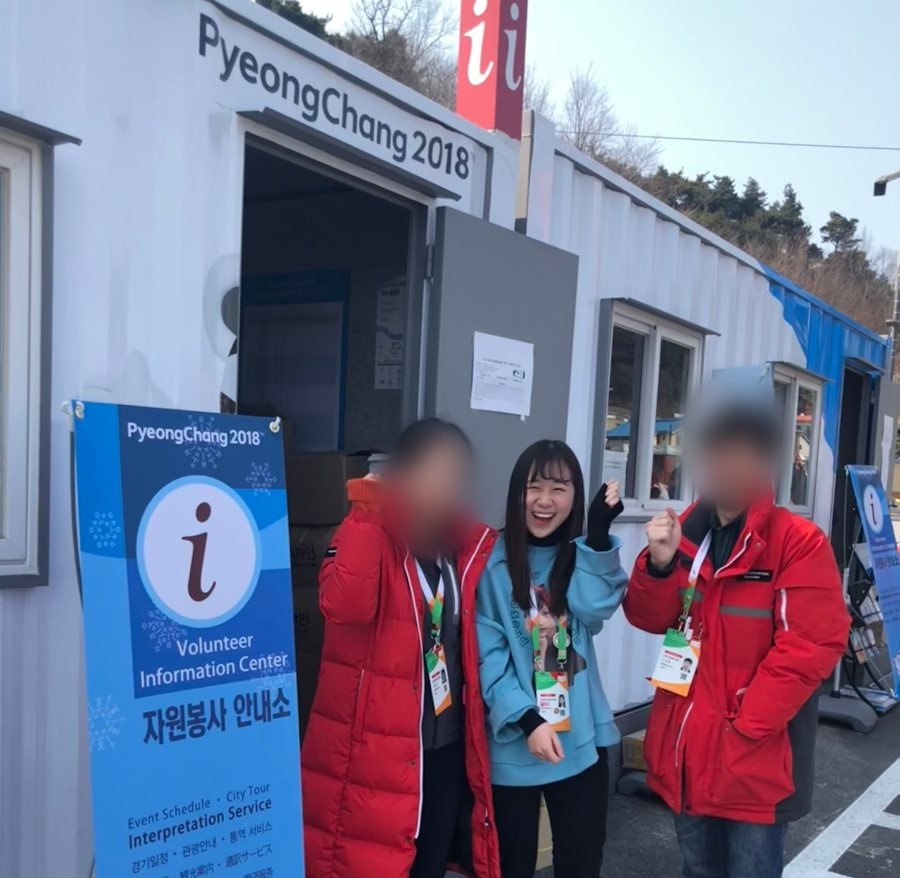
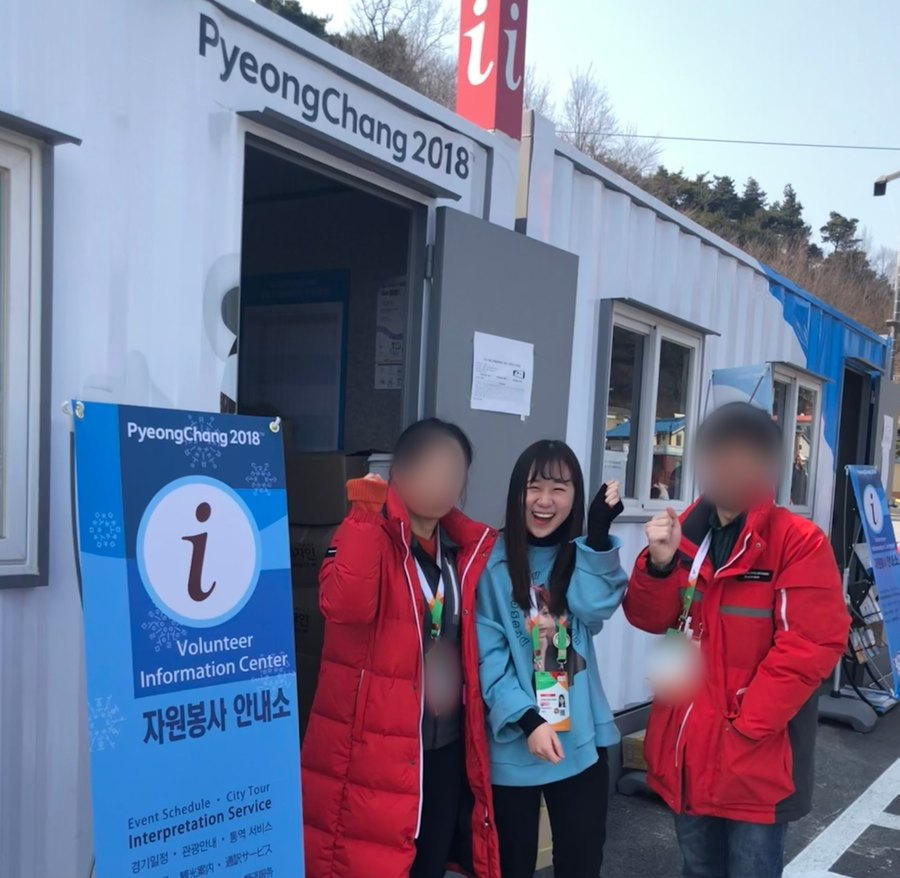
loreal: drop Maryland, add PyeongChang and graduation photos; blur others' faces
Same road-sign changes as /tripcom. In the PyeongChang group photo the
two people beside Sony have their faces and ID badges blurred (also
applied to the /tripcom copy).

Claude-Session: https://claude.ai/code/session_01Gbpb7sHddyPuNvSF22USPS

diff --git a/loreal-v6/index.html b/loreal-v6/index.html
@@ -473,6 +473,8 @@ mark{background:linear-gradient(transparent 62%,rgba(200,169,106,.35) 62%)!impor
 
 .shade.done .sp-in{-webkit-mask-image:none;mask-image:none}
 .bb-panel{z-index:2}.pole{z-index:1}
+.bb .pic.pic-mini{width:17%;right:-4.6em;top:auto;bottom:-4.4em;padding:.3em .3em 1em;z-index:2}
+.bb .pic.pic-tall{width:31%;top:.8em}.bb .pic.pic-tall img{aspect-ratio:4/5;object-position:50% 20%}
 /* hologram coverflow (contained, never overlaps copy) */
 .holo-row{display:block!important}
 .holo-row .ic-list{grid-template-columns:repeat(3,1fr);gap:18px}
@@ -651,14 +653,14 @@ html.en .xb::after{content:"× ↑";font-family:inherit;font-size:1em}
         <div class="track" id="track">
           <article class="bb" data-i="0">
             <div class="bb-panel"><div class="bb-top"><span>No.01</span><span>Born</span></div>
-              <b class="bb-year">2001</b><h3>Maryland, U.S.</h3><p>메릴랜드에서 태어나 11년간 성장</p>
+              <b class="bb-year">2001</b><h3>United States</h3><p>미국에서 태어나 11년간 성장</p>
               <span class="stk y" style="--r:-7deg">Hello, world!</span><i class="holo"></i></div>
             <i class="pole l"></i><i class="pole r"></i>
           </article>
           <article class="bb" data-i="1">
             <div class="bb-panel"><div class="bb-top"><span>No.02</span><span>Volunteer</span></div>
               <b class="bb-year">2018</b><h3>PyeongChang Olympics</h3><p>강릉역 통역 자원봉사 · 교통 · 길 안내</p>
-              <figure class="pic" style="--r:6deg"><img src="../assets/pyeongchang-badge.jpg" alt="평창 올림픽 자원봉사 배지"><i class="tape"></i></figure>
+              <figure class="pic" style="--r:5deg"><img src="img/pc-volunteer.jpg" alt="평창 올림픽 자원봉사 안내소에서"><i class="tape"></i></figure><figure class="pic pic-mini" style="--r:-8deg"><img src="../assets/pyeongchang-badge.jpg" alt="평창 올림픽 자원봉사 배지"></figure>
               <span class="stk w" style="--r:-9deg">Interpreter</span><i class="holo"></i></div>
             <i class="pole l"></i><i class="pole r"></i>
           </article>
@@ -679,6 +681,7 @@ html.en .xb::after{content:"× ↑";font-family:inherit;font-size:1em}
           <article class="bb" data-i="4">
             <div class="bb-panel"><div class="bb-top"><span>No.05</span><span>Seoul</span></div>
               <b class="bb-year">2024</b><h3>Dongguk University</h3><p>경제학과 · GPA 4.05 / 4.5</p>
+              <figure class="pic pic-tall" style="--r:-5deg"><img src="img/dongguk-grad.jpg" alt="동국대학교 졸업"><i class="tape"></i></figure>
               <span class="stk w" style="--r:7deg">Economics</span><i class="holo"></i></div>
             <i class="pole l"></i><i class="pole r"></i>
           </article>
@@ -919,7 +922,7 @@ html.en .xb::after{content:"× ↑";font-family:inherit;font-size:1em}
 
 <div class="lb" id="lb" role="dialog" aria-modal="true"><span class="x">Close ✕</span></div>
 
-<script>window.__EN={"메릴랜드에서 태어나 11년간 성장": "Born in Maryland and raised there for 11 years", "강릉역 통역 자원봉사 · 교통 · 길 안내": "Volunteer interpreter at Gangneung Station · transportation · directions", "해외 진출 전략 제안 · 1위": "Proposed a global market-entry strategy · 1st place", "원격 마케팅 인턴 · 영문 브로슈어·이북": "Remote marketing intern · English brochure and e-book", "경제학과 · GPA 4.05 / 4.5": "Economics · GPA 4.05 / 4.5", "금융 아카데미 7기 수료": "Completed the Financial Academy, 7th cohort", "브랜드 행사 4회 기획 · 최대 150명": "Planned 4 brand events · up to 150 guests", "국적과 실력이 달라도, 처음 만난 사람끼리 연결되는 참여형 브랜드 이벤트": "Interactive brand events where people of any nationality or level connect with someone new", "Branch Assistant · 이벤트 공동 호스트국내 최대 영어회화 스터디 1호점2024.08 – 현재": "<b>Branch Assistant · Event co-host</b><br/>Flagship branch of Korea’s largest English conversation study<br/>Aug 2024 – Present", "참여 인원 증가 · 90 → 150명": "Turnout growth · 90 → 150 guests", "이벤트 4회 누적 게스트": "Total guests across 4 events", "회차별 사전 RSVP · 행사 전 비용 충당": "Advance RSVPs per event · costs covered before the night", "먼저 제안해 기획을 맡다업무 범위 밖이었지만 매니저에게 직접 제안해 지점 파티 기획 권한을 받았습니다.": "<b>Pitched it, then got to plan it</b>It was outside my role, but I proposed it to my manager directly and was given <mark>ownership of the branch parties</mark>.", "템플릿 대신 시리즈 홍보물마스코트 ‘코코’와 직접 찍은 사진으로 회차별 테마 포스터를 디자인했습니다.": "<b>A poster series, not templates</b>I designed <mark>a themed poster for each event</mark> with Coco the mascot and my own photos.", "SNS용 애니메이션 포스터인스타그램용으로 움직임을 넣은 포스터를 만들어 사전 RSVP를 모았습니다.": "<b>Animated posters for social</b>I made <mark>posters with motion</mark> for Instagram to gather RSVPs in advance.", "스태프 근무표 · 매뉴얼 4p": "Staff rota · manual, 4p", "크리스마스 행사 현장": "Christmas event on site", "행사 현장 영상": "Event footage", "아래 홀로그램 카드를 넘겨 보고, 가운데 카드를 누르면 크게 볼 수 있습니다.": "Swipe through the hologram cards below; tap the centre card to enlarge it.", "↺ 처음부터": "↺ Replay", "참여권 배부": "Game pass at the door", "같은 그림 짝 찾기": "Find your matching picture", "짝 인증": "Pair check", "응모권": "Entries", "🎯사격": "🎯<em>Shooting</em>", "⭕링 던지기": "⭕<em>Ring toss</em>", "⚽푸즈볼": "⚽<em>Foosball</em>", "01게임 참여권 받기입장 시 회차 테마 그림 카드 배부": "<b>01</b><h4>Get a game pass</h4>A themed picture card at the door", "02같은 그림 짝 찾기처음 만난 게스트와 팀 구성": "<b>02</b><h4>Find your match</h4>Team up with a guest you just met", "03인증 후 미니게임사격 · 링 던지기 · 푸즈볼": "<b>03</b><h4>Mini games after check-in</h4>Shooting · ring toss · foosball", "04경품 응모권많이 참여할수록 당첨 확률 ↑": "<b>04</b><h4>Prize-draw entries</h4>Play more, win more often ↑", "↻ 선착순 마감 → 재참여형 · 인기로 미니게임이 조기 마감되자, 같은 그림 카드를 여러 장 준비해 새로운 파트너와 반복 참여하도록 바꿨습니다.": "<b>↻ First-come → replayable</b> · When the mini games sold out early, I prepared several copies of each picture card so guests could replay with new partners.", "응대 스크립트 · 예약 프로세스 · 스터디 진행까지, 고객과 만나는 첫 접점을 다시 설계": "Script, booking process and study sessions: redesigning the first touchpoint with customers", "Branch Assistant · 고객 응대문의자 콜백 · 상담 예약 · 스터디 진행2024.08 – 현재": "<b>Branch Assistant · Customer care</b><br/>Inquiry callbacks · booking · study sessions<br/>Aug 2024 – Present", "상담 전환율 (5% → 7%) · 지점 평균 4%": "Booking rate (5% → 7%) · branch average 4%", "회신량 · 1년차 2,241건 → 2년차 5,062건": "Callbacks · 2,241 in year one → 5,062 in year two", "2년간 누적 회신 · 조교 중 최다": "Total callbacks over two years · most among staff", "세션당 최대 응대 인원": "Members hosted per session, at most", "이름 확인“○○님 되시죠?” 광고 전화가 아님을 첫마디에 전달": "<b>Confirm the name</b><span>“Is this ○○?” signals from the first words that it is not a sales call</span>", "문의 경로 안내“영어회화 스터디 컬컴 신촌점입니다”로 신뢰 확보": "<b>State the inquiry source</b><span>“This is Culcom Sinchon, the English study” builds trust</span>", "1분 양해“1분만 통화 가능하실까요?”로 부담 낮추기": "<b>Ask for one minute</b><span>“Do you have a minute?” lowers the pressure</span>", "가장 빠른 상담 제안필요한 정보만 전하고 바로 일정 제안": "<b>Offer the earliest slot</b><span>Only the essentials, then a time right away</span>", "1년차 회신": "Year 1 callbacks", "2년차 회신": "Year 2 callbacks", "지점 평균": "Branch average", "내 전환율": "My booking rate", "2년간 7,303건 회신 · 조교 중 최다 회신, 최고 전환율": "7,303 callbacks over two years · most callbacks and highest conversion among staff", "미확정 사유를 데이터로미확정 사유를 타지점 희망 · 사정상 거절 · 허수 3가지로 분류해 기록했고, 허수가 많은 광고를 매니저에게 공유해 광고 효율 개선에 반영되었습니다.": "<b>Non-bookings as data</b>I logged every non-booking as <mark>other branch · declined · fake lead</mark>, and shared ads with many fake leads with my manager, which fed into improving ad efficiency.", "모두가 쓰는 메시지 템플릿언어별 상담 가능 시간대를 매니저와 정리하고, 전 조교가 함께 쓰는 구글 문서 메시지 템플릿을 업데이트했습니다.": "<b>One template for everyone</b>I clarified each language’s consultation hours with my manager and updated the <mark>Google Docs message templates</mark> all assistants share.", "01운영 변화2025년 11월 일본어 · 중국어 스터디가 추가되며 언어별 상담 시간 · 정원이 달라졌습니다.": "<b>01</b><h4>Change</h4>Japanese and Chinese studies were added in Nov 2025, each with its own consultation hours and capacity.", "02위험 발견네이버 예약은 영어 기준으로 자동 확정되어 중복 · 초과 예약 위험이 있었습니다.": "<b>02</b><h4>Risk spotted</h4>Naver still auto-confirmed bookings on the English schedule, risking <mark>double and over-booking</mark>.", "03개선 제안업무 중 먼저 파악해, 정원이 찬 뒤 당일 예약이 확정되지 않도록 수동 확정 전환을 제안했습니다.": "<b>03</b><h4>Proposal</h4>I caught it on the job and proposed <mark>manual confirmation</mark> so same-day bookings would not be confirmed once slots were full.", "04결과언어 확대 후에도 중복 예약 · 혼선 없이 운영되었습니다.": "<b>04</b><h4>Result</h4>No double bookings or confusion after the language expansion.", "리더가 비는 날에는 초급부터 레벨 4 프리토킹까지 직접 세션을 진행했습니다. 그룹마다 속도와 말하기 방식을 맞춰, 처음 온 멤버도 대화에 들어올 수 있게 했습니다.": "When leaders were out, I ran sessions myself, <mark>from beginner to level-4 free talk</mark>, matching each group’s pace and speaking style so even first-time members could join the conversation.", "흩어진 정보를 미국 독자가 읽는 자료로": "Organizing scattered information into material for US readers", "Marketing Intern · Remote미국 교육 스타트업 (Tysons, VA)2022.01 – 02": "<b>Marketing Intern · Remote</b><br/>US education startup (Tysons, VA)<br/>Jan – Feb 2022", "흩어진 정보를 구조화텍스트로 빼곡한 시트를 프로그램 유형 · 핵심 정보 기준으로 다시 분류했습니다.": "<b>Structured scattered data</b>I regrouped a text-heavy sheet <mark>by program type and key details</mark>.", "미국 독자에 맞춘 형식미국 상사의 피드백으로 Visme를 빠르게 익혀 디자인을 통일했습니다.": "<b>A format for US readers</b>Following my US supervisor’s feedback, I <mark>picked up Visme quickly</mark> and unified the design.", "기한 내 완수 · 수료장학금 · 인턴십 · 서머 프로그램 브로슈어와 이북 2종을 완성했습니다.": "<b>Delivered on time · completed</b>I finished <mark>a brochure and an e-book</mark> on scholarships, internships and summer programs.", "브로슈어 전체 23p": "Full brochure, 23p", "이북 전체 17p": "Full e-book, 17p", "인턴십 수료증": "Internship certificate", "최고 등급": "Highest level", "동국대학교 경제학과 · 학사": "Dongguk University · B.A. in Economics", "2024.03 – 2026.08 · 편입": "Mar 2024 – Aug 2026 · transfer", "강릉원주대학교 국제통상학과": "Gangneung-Wonju National Univ. · International Trade", "삼성금융아카데미 7기 수료": "Samsung Financial Academy, 7th cohort (completed)", "경제학 지식을 금융 산업의 실무 맥락으로 확장": "Extended economics into <mark>how the finance industry works in practice</mark>", "수료증": "Certificate", "교내 글로벌마케팅대회 최우수상 (1위)": "Global Marketing Competition · 1st place", "시장 규모 · 현지 수요를 분석해 해외 진출 전략 제안": "Analyzed market size and local demand to propose a <mark>market-entry strategy</mark>", "상장": "Award", "발표 자료 18p": "Deck, 18p", "평창동계올림픽 통역 자원봉사": "PyeongChang 2018 Winter Olympics · volunteer interpreter", "강릉역에서 교통 · 길 안내 문의를 영어로 응대": "Answered <mark>transportation and directions</mark> questions in English at Gangneung Station", "명찰": "Name badge", "현장 사진": "On-site photo", "고객이 브랜드를 직접 느끼고 머무는 순간을, 로레알에서 함께 만들고 싶습니다.": "I want to create, with L’Oréal, the moments when customers feel a brand firsthand and choose to stay."};window.__ENA={"Educanspire 브로슈어": "Educanspire brochure", "글로벌 마케팅 경진대회 발표 자료": "Global Marketing Competition deck", "드림하우스 파티 포스터": "Dream House party poster", "마스코트 코코": "Coco the mascot", "브로슈어 표지": "Brochure cover", "삼성 금융 아카데미 배지": "Samsung Financial Academy badge", "스태프 근무표": "Staff rota", "이북 표지": "E-book cover", "진행한 레벨": "Levels led", "카지노 파티 포스터": "Casino party poster", "평창 올림픽 자원봉사 배지": "PyeongChang Olympics volunteer badge"};</script>
+<script>window.__EN={"미국에서 태어나 11년간 성장": "Born in the U.S. and raised there for 11 years", "강릉역 통역 자원봉사 · 교통 · 길 안내": "Volunteer interpreter at Gangneung Station · transportation · directions", "해외 진출 전략 제안 · 1위": "Proposed a global market-entry strategy · 1st place", "원격 마케팅 인턴 · 영문 브로슈어·이북": "Remote marketing intern · English brochure and e-book", "경제학과 · GPA 4.05 / 4.5": "Economics · GPA 4.05 / 4.5", "금융 아카데미 7기 수료": "Completed the Financial Academy, 7th cohort", "브랜드 행사 4회 기획 · 최대 150명": "Planned 4 brand events · up to 150 guests", "국적과 실력이 달라도, 처음 만난 사람끼리 연결되는 참여형 브랜드 이벤트": "Interactive brand events where people of any nationality or level connect with someone new", "Branch Assistant · 이벤트 공동 호스트국내 최대 영어회화 스터디 1호점2024.08 – 현재": "<b>Branch Assistant · Event co-host</b><br/>Flagship branch of Korea’s largest English conversation study<br/>Aug 2024 – Present", "참여 인원 증가 · 90 → 150명": "Turnout growth · 90 → 150 guests", "이벤트 4회 누적 게스트": "Total guests across 4 events", "회차별 사전 RSVP · 행사 전 비용 충당": "Advance RSVPs per event · costs covered before the night", "먼저 제안해 기획을 맡다업무 범위 밖이었지만 매니저에게 직접 제안해 지점 파티 기획 권한을 받았습니다.": "<b>Pitched it, then got to plan it</b>It was outside my role, but I proposed it to my manager directly and was given <mark>ownership of the branch parties</mark>.", "템플릿 대신 시리즈 홍보물마스코트 ‘코코’와 직접 찍은 사진으로 회차별 테마 포스터를 디자인했습니다.": "<b>A poster series, not templates</b>I designed <mark>a themed poster for each event</mark> with Coco the mascot and my own photos.", "SNS용 애니메이션 포스터인스타그램용으로 움직임을 넣은 포스터를 만들어 사전 RSVP를 모았습니다.": "<b>Animated posters for social</b>I made <mark>posters with motion</mark> for Instagram to gather RSVPs in advance.", "스태프 근무표 · 매뉴얼 4p": "Staff rota · manual, 4p", "크리스마스 행사 현장": "Christmas event on site", "행사 현장 영상": "Event footage", "아래 홀로그램 카드를 넘겨 보고, 가운데 카드를 누르면 크게 볼 수 있습니다.": "Swipe through the hologram cards below; tap the centre card to enlarge it.", "↺ 처음부터": "↺ Replay", "참여권 배부": "Game pass at the door", "같은 그림 짝 찾기": "Find your matching picture", "짝 인증": "Pair check", "응모권": "Entries", "🎯사격": "🎯<em>Shooting</em>", "⭕링 던지기": "⭕<em>Ring toss</em>", "⚽푸즈볼": "⚽<em>Foosball</em>", "01게임 참여권 받기입장 시 회차 테마 그림 카드 배부": "<b>01</b><h4>Get a game pass</h4>A themed picture card at the door", "02같은 그림 짝 찾기처음 만난 게스트와 팀 구성": "<b>02</b><h4>Find your match</h4>Team up with a guest you just met", "03인증 후 미니게임사격 · 링 던지기 · 푸즈볼": "<b>03</b><h4>Mini games after check-in</h4>Shooting · ring toss · foosball", "04경품 응모권많이 참여할수록 당첨 확률 ↑": "<b>04</b><h4>Prize-draw entries</h4>Play more, win more often ↑", "↻ 선착순 마감 → 재참여형 · 인기로 미니게임이 조기 마감되자, 같은 그림 카드를 여러 장 준비해 새로운 파트너와 반복 참여하도록 바꿨습니다.": "<b>↻ First-come → replayable</b> · When the mini games sold out early, I prepared several copies of each picture card so guests could replay with new partners.", "응대 스크립트 · 예약 프로세스 · 스터디 진행까지, 고객과 만나는 첫 접점을 다시 설계": "Script, booking process and study sessions: redesigning the first touchpoint with customers", "Branch Assistant · 고객 응대문의자 콜백 · 상담 예약 · 스터디 진행2024.08 – 현재": "<b>Branch Assistant · Customer care</b><br/>Inquiry callbacks · booking · study sessions<br/>Aug 2024 – Present", "상담 전환율 (5% → 7%) · 지점 평균 4%": "Booking rate (5% → 7%) · branch average 4%", "회신량 · 1년차 2,241건 → 2년차 5,062건": "Callbacks · 2,241 in year one → 5,062 in year two", "2년간 누적 회신 · 조교 중 최다": "Total callbacks over two years · most among staff", "세션당 최대 응대 인원": "Members hosted per session, at most", "이름 확인“○○님 되시죠?” 광고 전화가 아님을 첫마디에 전달": "<b>Confirm the name</b><span>“Is this ○○?” signals from the first words that it is not a sales call</span>", "문의 경로 안내“영어회화 스터디 컬컴 신촌점입니다”로 신뢰 확보": "<b>State the inquiry source</b><span>“This is Culcom Sinchon, the English study” builds trust</span>", "1분 양해“1분만 통화 가능하실까요?”로 부담 낮추기": "<b>Ask for one minute</b><span>“Do you have a minute?” lowers the pressure</span>", "가장 빠른 상담 제안필요한 정보만 전하고 바로 일정 제안": "<b>Offer the earliest slot</b><span>Only the essentials, then a time right away</span>", "1년차 회신": "Year 1 callbacks", "2년차 회신": "Year 2 callbacks", "지점 평균": "Branch average", "내 전환율": "My booking rate", "2년간 7,303건 회신 · 조교 중 최다 회신, 최고 전환율": "7,303 callbacks over two years · most callbacks and highest conversion among staff", "미확정 사유를 데이터로미확정 사유를 타지점 희망 · 사정상 거절 · 허수 3가지로 분류해 기록했고, 허수가 많은 광고를 매니저에게 공유해 광고 효율 개선에 반영되었습니다.": "<b>Non-bookings as data</b>I logged every non-booking as <mark>other branch · declined · fake lead</mark>, and shared ads with many fake leads with my manager, which fed into improving ad efficiency.", "모두가 쓰는 메시지 템플릿언어별 상담 가능 시간대를 매니저와 정리하고, 전 조교가 함께 쓰는 구글 문서 메시지 템플릿을 업데이트했습니다.": "<b>One template for everyone</b>I clarified each language’s consultation hours with my manager and updated the <mark>Google Docs message templates</mark> all assistants share.", "01운영 변화2025년 11월 일본어 · 중국어 스터디가 추가되며 언어별 상담 시간 · 정원이 달라졌습니다.": "<b>01</b><h4>Change</h4>Japanese and Chinese studies were added in Nov 2025, each with its own consultation hours and capacity.", "02위험 발견네이버 예약은 영어 기준으로 자동 확정되어 중복 · 초과 예약 위험이 있었습니다.": "<b>02</b><h4>Risk spotted</h4>Naver still auto-confirmed bookings on the English schedule, risking <mark>double and over-booking</mark>.", "03개선 제안업무 중 먼저 파악해, 정원이 찬 뒤 당일 예약이 확정되지 않도록 수동 확정 전환을 제안했습니다.": "<b>03</b><h4>Proposal</h4>I caught it on the job and proposed <mark>manual confirmation</mark> so same-day bookings would not be confirmed once slots were full.", "04결과언어 확대 후에도 중복 예약 · 혼선 없이 운영되었습니다.": "<b>04</b><h4>Result</h4>No double bookings or confusion after the language expansion.", "리더가 비는 날에는 초급부터 레벨 4 프리토킹까지 직접 세션을 진행했습니다. 그룹마다 속도와 말하기 방식을 맞춰, 처음 온 멤버도 대화에 들어올 수 있게 했습니다.": "When leaders were out, I ran sessions myself, <mark>from beginner to level-4 free talk</mark>, matching each group’s pace and speaking style so even first-time members could join the conversation.", "흩어진 정보를 미국 독자가 읽는 자료로": "Organizing scattered information into material for US readers", "Marketing Intern · Remote미국 교육 스타트업 (Tysons, VA)2022.01 – 02": "<b>Marketing Intern · Remote</b><br/>US education startup (Tysons, VA)<br/>Jan – Feb 2022", "흩어진 정보를 구조화텍스트로 빼곡한 시트를 프로그램 유형 · 핵심 정보 기준으로 다시 분류했습니다.": "<b>Structured scattered data</b>I regrouped a text-heavy sheet <mark>by program type and key details</mark>.", "미국 독자에 맞춘 형식미국 상사의 피드백으로 Visme를 빠르게 익혀 디자인을 통일했습니다.": "<b>A format for US readers</b>Following my US supervisor’s feedback, I <mark>picked up Visme quickly</mark> and unified the design.", "기한 내 완수 · 수료장학금 · 인턴십 · 서머 프로그램 브로슈어와 이북 2종을 완성했습니다.": "<b>Delivered on time · completed</b>I finished <mark>a brochure and an e-book</mark> on scholarships, internships and summer programs.", "브로슈어 전체 23p": "Full brochure, 23p", "이북 전체 17p": "Full e-book, 17p", "인턴십 수료증": "Internship certificate", "최고 등급": "Highest level", "동국대학교 경제학과 · 학사": "Dongguk University · B.A. in Economics", "2024.03 – 2026.08 · 편입": "Mar 2024 – Aug 2026 · transfer", "강릉원주대학교 국제통상학과": "Gangneung-Wonju National Univ. · International Trade", "삼성금융아카데미 7기 수료": "Samsung Financial Academy, 7th cohort (completed)", "경제학 지식을 금융 산업의 실무 맥락으로 확장": "Extended economics into <mark>how the finance industry works in practice</mark>", "수료증": "Certificate", "교내 글로벌마케팅대회 최우수상 (1위)": "Global Marketing Competition · 1st place", "시장 규모 · 현지 수요를 분석해 해외 진출 전략 제안": "Analyzed market size and local demand to propose a <mark>market-entry strategy</mark>", "상장": "Award", "발표 자료 18p": "Deck, 18p", "평창동계올림픽 통역 자원봉사": "PyeongChang 2018 Winter Olympics · volunteer interpreter", "강릉역에서 교통 · 길 안내 문의를 영어로 응대": "Answered <mark>transportation and directions</mark> questions in English at Gangneung Station", "명찰": "Name badge", "현장 사진": "On-site photo", "고객이 브랜드를 직접 느끼고 머무는 순간을, 로레알에서 함께 만들고 싶습니다.": "I want to create, with L’Oréal, the moments when customers feel a brand firsthand and choose to stay."};window.__ENA={"Educanspire 브로슈어": "Educanspire brochure", "글로벌 마케팅 경진대회 발표 자료": "Global Marketing Competition deck", "드림하우스 파티 포스터": "Dream House party poster", "마스코트 코코": "Coco the mascot", "브로슈어 표지": "Brochure cover", "삼성 금융 아카데미 배지": "Samsung Financial Academy badge", "스태프 근무표": "Staff rota", "이북 표지": "E-book cover", "진행한 레벨": "Levels led", "카지노 파티 포스터": "Casino party poster", "평창 올림픽 자원봉사 배지": "PyeongChang Olympics volunteer badge", "평창 올림픽 자원봉사 안내소에서": "At the PyeongChang Olympics volunteer desk", "동국대학교 졸업": "Graduating from Dongguk University"};</script>
 <script>
 (function(){
   const reduce = matchMedia('(prefers-reduced-motion: reduce)').matches;

diff --git a/loreal/index.html b/loreal/index.html
@@ -473,6 +473,8 @@ mark{background:linear-gradient(transparent 62%,rgba(200,169,106,.35) 62%)!impor
 
 .shade.done .sp-in{-webkit-mask-image:none;mask-image:none}
 .bb-panel{z-index:2}.pole{z-index:1}
+.bb .pic.pic-mini{width:17%;right:-4.6em;top:auto;bottom:-4.4em;padding:.3em .3em 1em;z-index:2}
+.bb .pic.pic-tall{width:31%;top:.8em}.bb .pic.pic-tall img{aspect-ratio:4/5;object-position:50% 20%}
 /* hologram coverflow (contained, never overlaps copy) */
 .holo-row{display:block!important}
 .holo-row .ic-list{grid-template-columns:repeat(3,1fr);gap:18px}
@@ -651,14 +653,14 @@ html.en .xb::after{content:"× ↑";font-family:inherit;font-size:1em}
         <div class="track" id="track">
           <article class="bb" data-i="0">
             <div class="bb-panel"><div class="bb-top"><span>No.01</span><span>Born</span></div>
-              <b class="bb-year">2001</b><h3>Maryland, U.S.</h3><p>메릴랜드에서 태어나 11년간 성장</p>
+              <b class="bb-year">2001</b><h3>United States</h3><p>미국에서 태어나 11년간 성장</p>
               <span class="stk y" style="--r:-7deg">Hello, world!</span><i class="holo"></i></div>
             <i class="pole l"></i><i class="pole r"></i>
           </article>
           <article class="bb" data-i="1">
             <div class="bb-panel"><div class="bb-top"><span>No.02</span><span>Volunteer</span></div>
               <b class="bb-year">2018</b><h3>PyeongChang Olympics</h3><p>강릉역 통역 자원봉사 · 교통 · 길 안내</p>
-              <figure class="pic" style="--r:6deg"><img src="../assets/pyeongchang-badge.jpg" alt="평창 올림픽 자원봉사 배지"><i class="tape"></i></figure>
+              <figure class="pic" style="--r:5deg"><img src="img/pc-volunteer.jpg" alt="평창 올림픽 자원봉사 안내소에서"><i class="tape"></i></figure><figure class="pic pic-mini" style="--r:-8deg"><img src="../assets/pyeongchang-badge.jpg" alt="평창 올림픽 자원봉사 배지"></figure>
               <span class="stk w" style="--r:-9deg">Interpreter</span><i class="holo"></i></div>
             <i class="pole l"></i><i class="pole r"></i>
           </article>
@@ -679,6 +681,7 @@ html.en .xb::after{content:"× ↑";font-family:inherit;font-size:1em}
           <article class="bb" data-i="4">
             <div class="bb-panel"><div class="bb-top"><span>No.05</span><span>Seoul</span></div>
               <b class="bb-year">2024</b><h3>Dongguk University</h3><p>경제학과 · GPA 4.05 / 4.5</p>
+              <figure class="pic pic-tall" style="--r:-5deg"><img src="img/dongguk-grad.jpg" alt="동국대학교 졸업"><i class="tape"></i></figure>
               <span class="stk w" style="--r:7deg">Economics</span><i class="holo"></i></div>
             <i class="pole l"></i><i class="pole r"></i>
           </article>
@@ -919,7 +922,7 @@ html.en .xb::after{content:"× ↑";font-family:inherit;font-size:1em}
 
 <div class="lb" id="lb" role="dialog" aria-modal="true"><span class="x">Close ✕</span></div>
 
-<script>window.__EN={"메릴랜드에서 태어나 11년간 성장": "Born in Maryland and raised there for 11 years", "강릉역 통역 자원봉사 · 교통 · 길 안내": "Volunteer interpreter at Gangneung Station · transportation · directions", "해외 진출 전략 제안 · 1위": "Proposed a global market-entry strategy · 1st place", "원격 마케팅 인턴 · 영문 브로슈어·이북": "Remote marketing intern · English brochure and e-book", "경제학과 · GPA 4.05 / 4.5": "Economics · GPA 4.05 / 4.5", "금융 아카데미 7기 수료": "Completed the Financial Academy, 7th cohort", "브랜드 행사 4회 기획 · 최대 150명": "Planned 4 brand events · up to 150 guests", "국적과 실력이 달라도, 처음 만난 사람끼리 연결되는 참여형 브랜드 이벤트": "Interactive brand events where people of any nationality or level connect with someone new", "Branch Assistant · 이벤트 공동 호스트국내 최대 영어회화 스터디 1호점2024.08 – 현재": "<b>Branch Assistant · Event co-host</b><br/>Flagship branch of Korea’s largest English conversation study<br/>Aug 2024 – Present", "참여 인원 증가 · 90 → 150명": "Turnout growth · 90 → 150 guests", "이벤트 4회 누적 게스트": "Total guests across 4 events", "회차별 사전 RSVP · 행사 전 비용 충당": "Advance RSVPs per event · costs covered before the night", "먼저 제안해 기획을 맡다업무 범위 밖이었지만 매니저에게 직접 제안해 지점 파티 기획 권한을 받았습니다.": "<b>Pitched it, then got to plan it</b>It was outside my role, but I proposed it to my manager directly and was given <mark>ownership of the branch parties</mark>.", "템플릿 대신 시리즈 홍보물마스코트 ‘코코’와 직접 찍은 사진으로 회차별 테마 포스터를 디자인했습니다.": "<b>A poster series, not templates</b>I designed <mark>a themed poster for each event</mark> with Coco the mascot and my own photos.", "SNS용 애니메이션 포스터인스타그램용으로 움직임을 넣은 포스터를 만들어 사전 RSVP를 모았습니다.": "<b>Animated posters for social</b>I made <mark>posters with motion</mark> for Instagram to gather RSVPs in advance.", "스태프 근무표 · 매뉴얼 4p": "Staff rota · manual, 4p", "크리스마스 행사 현장": "Christmas event on site", "행사 현장 영상": "Event footage", "아래 홀로그램 카드를 넘겨 보고, 가운데 카드를 누르면 크게 볼 수 있습니다.": "Swipe through the hologram cards below; tap the centre card to enlarge it.", "↺ 처음부터": "↺ Replay", "참여권 배부": "Game pass at the door", "같은 그림 짝 찾기": "Find your matching picture", "짝 인증": "Pair check", "응모권": "Entries", "🎯사격": "🎯<em>Shooting</em>", "⭕링 던지기": "⭕<em>Ring toss</em>", "⚽푸즈볼": "⚽<em>Foosball</em>", "01게임 참여권 받기입장 시 회차 테마 그림 카드 배부": "<b>01</b><h4>Get a game pass</h4>A themed picture card at the door", "02같은 그림 짝 찾기처음 만난 게스트와 팀 구성": "<b>02</b><h4>Find your match</h4>Team up with a guest you just met", "03인증 후 미니게임사격 · 링 던지기 · 푸즈볼": "<b>03</b><h4>Mini games after check-in</h4>Shooting · ring toss · foosball", "04경품 응모권많이 참여할수록 당첨 확률 ↑": "<b>04</b><h4>Prize-draw entries</h4>Play more, win more often ↑", "↻ 선착순 마감 → 재참여형 · 인기로 미니게임이 조기 마감되자, 같은 그림 카드를 여러 장 준비해 새로운 파트너와 반복 참여하도록 바꿨습니다.": "<b>↻ First-come → replayable</b> · When the mini games sold out early, I prepared several copies of each picture card so guests could replay with new partners.", "응대 스크립트 · 예약 프로세스 · 스터디 진행까지, 고객과 만나는 첫 접점을 다시 설계": "Script, booking process and study sessions: redesigning the first touchpoint with customers", "Branch Assistant · 고객 응대문의자 콜백 · 상담 예약 · 스터디 진행2024.08 – 현재": "<b>Branch Assistant · Customer care</b><br/>Inquiry callbacks · booking · study sessions<br/>Aug 2024 – Present", "상담 전환율 (5% → 7%) · 지점 평균 4%": "Booking rate (5% → 7%) · branch average 4%", "회신량 · 1년차 2,241건 → 2년차 5,062건": "Callbacks · 2,241 in year one → 5,062 in year two", "2년간 누적 회신 · 조교 중 최다": "Total callbacks over two years · most among staff", "세션당 최대 응대 인원": "Members hosted per session, at most", "이름 확인“○○님 되시죠?” 광고 전화가 아님을 첫마디에 전달": "<b>Confirm the name</b><span>“Is this ○○?” signals from the first words that it is not a sales call</span>", "문의 경로 안내“영어회화 스터디 컬컴 신촌점입니다”로 신뢰 확보": "<b>State the inquiry source</b><span>“This is Culcom Sinchon, the English study” builds trust</span>", "1분 양해“1분만 통화 가능하실까요?”로 부담 낮추기": "<b>Ask for one minute</b><span>“Do you have a minute?” lowers the pressure</span>", "가장 빠른 상담 제안필요한 정보만 전하고 바로 일정 제안": "<b>Offer the earliest slot</b><span>Only the essentials, then a time right away</span>", "1년차 회신": "Year 1 callbacks", "2년차 회신": "Year 2 callbacks", "지점 평균": "Branch average", "내 전환율": "My booking rate", "2년간 7,303건 회신 · 조교 중 최다 회신, 최고 전환율": "7,303 callbacks over two years · most callbacks and highest conversion among staff", "미확정 사유를 데이터로미확정 사유를 타지점 희망 · 사정상 거절 · 허수 3가지로 분류해 기록했고, 허수가 많은 광고를 매니저에게 공유해 광고 효율 개선에 반영되었습니다.": "<b>Non-bookings as data</b>I logged every non-booking as <mark>other branch · declined · fake lead</mark>, and shared ads with many fake leads with my manager, which fed into improving ad efficiency.", "모두가 쓰는 메시지 템플릿언어별 상담 가능 시간대를 매니저와 정리하고, 전 조교가 함께 쓰는 구글 문서 메시지 템플릿을 업데이트했습니다.": "<b>One template for everyone</b>I clarified each language’s consultation hours with my manager and updated the <mark>Google Docs message templates</mark> all assistants share.", "01운영 변화2025년 11월 일본어 · 중국어 스터디가 추가되며 언어별 상담 시간 · 정원이 달라졌습니다.": "<b>01</b><h4>Change</h4>Japanese and Chinese studies were added in Nov 2025, each with its own consultation hours and capacity.", "02위험 발견네이버 예약은 영어 기준으로 자동 확정되어 중복 · 초과 예약 위험이 있었습니다.": "<b>02</b><h4>Risk spotted</h4>Naver still auto-confirmed bookings on the English schedule, risking <mark>double and over-booking</mark>.", "03개선 제안업무 중 먼저 파악해, 정원이 찬 뒤 당일 예약이 확정되지 않도록 수동 확정 전환을 제안했습니다.": "<b>03</b><h4>Proposal</h4>I caught it on the job and proposed <mark>manual confirmation</mark> so same-day bookings would not be confirmed once slots were full.", "04결과언어 확대 후에도 중복 예약 · 혼선 없이 운영되었습니다.": "<b>04</b><h4>Result</h4>No double bookings or confusion after the language expansion.", "리더가 비는 날에는 초급부터 레벨 4 프리토킹까지 직접 세션을 진행했습니다. 그룹마다 속도와 말하기 방식을 맞춰, 처음 온 멤버도 대화에 들어올 수 있게 했습니다.": "When leaders were out, I ran sessions myself, <mark>from beginner to level-4 free talk</mark>, matching each group’s pace and speaking style so even first-time members could join the conversation.", "흩어진 정보를 미국 독자가 읽는 자료로": "Organizing scattered information into material for US readers", "Marketing Intern · Remote미국 교육 스타트업 (Tysons, VA)2022.01 – 02": "<b>Marketing Intern · Remote</b><br/>US education startup (Tysons, VA)<br/>Jan – Feb 2022", "흩어진 정보를 구조화텍스트로 빼곡한 시트를 프로그램 유형 · 핵심 정보 기준으로 다시 분류했습니다.": "<b>Structured scattered data</b>I regrouped a text-heavy sheet <mark>by program type and key details</mark>.", "미국 독자에 맞춘 형식미국 상사의 피드백으로 Visme를 빠르게 익혀 디자인을 통일했습니다.": "<b>A format for US readers</b>Following my US supervisor’s feedback, I <mark>picked up Visme quickly</mark> and unified the design.", "기한 내 완수 · 수료장학금 · 인턴십 · 서머 프로그램 브로슈어와 이북 2종을 완성했습니다.": "<b>Delivered on time · completed</b>I finished <mark>a brochure and an e-book</mark> on scholarships, internships and summer programs.", "브로슈어 전체 23p": "Full brochure, 23p", "이북 전체 17p": "Full e-book, 17p", "인턴십 수료증": "Internship certificate", "최고 등급": "Highest level", "동국대학교 경제학과 · 학사": "Dongguk University · B.A. in Economics", "2024.03 – 2026.08 · 편입": "Mar 2024 – Aug 2026 · transfer", "강릉원주대학교 국제통상학과": "Gangneung-Wonju National Univ. · International Trade", "삼성금융아카데미 7기 수료": "Samsung Financial Academy, 7th cohort (completed)", "경제학 지식을 금융 산업의 실무 맥락으로 확장": "Extended economics into <mark>how the finance industry works in practice</mark>", "수료증": "Certificate", "교내 글로벌마케팅대회 최우수상 (1위)": "Global Marketing Competition · 1st place", "시장 규모 · 현지 수요를 분석해 해외 진출 전략 제안": "Analyzed market size and local demand to propose a <mark>market-entry strategy</mark>", "상장": "Award", "발표 자료 18p": "Deck, 18p", "평창동계올림픽 통역 자원봉사": "PyeongChang 2018 Winter Olympics · volunteer interpreter", "강릉역에서 교통 · 길 안내 문의를 영어로 응대": "Answered <mark>transportation and directions</mark> questions in English at Gangneung Station", "명찰": "Name badge", "현장 사진": "On-site photo", "고객이 브랜드를 직접 느끼고 머무는 순간을, 로레알에서 함께 만들고 싶습니다.": "I want to create, with L’Oréal, the moments when customers feel a brand firsthand and choose to stay."};window.__ENA={"Educanspire 브로슈어": "Educanspire brochure", "글로벌 마케팅 경진대회 발표 자료": "Global Marketing Competition deck", "드림하우스 파티 포스터": "Dream House party poster", "마스코트 코코": "Coco the mascot", "브로슈어 표지": "Brochure cover", "삼성 금융 아카데미 배지": "Samsung Financial Academy badge", "스태프 근무표": "Staff rota", "이북 표지": "E-book cover", "진행한 레벨": "Levels led", "카지노 파티 포스터": "Casino party poster", "평창 올림픽 자원봉사 배지": "PyeongChang Olympics volunteer badge"};</script>
+<script>window.__EN={"미국에서 태어나 11년간 성장": "Born in the U.S. and raised there for 11 years", "강릉역 통역 자원봉사 · 교통 · 길 안내": "Volunteer interpreter at Gangneung Station · transportation · directions", "해외 진출 전략 제안 · 1위": "Proposed a global market-entry strategy · 1st place", "원격 마케팅 인턴 · 영문 브로슈어·이북": "Remote marketing intern · English brochure and e-book", "경제학과 · GPA 4.05 / 4.5": "Economics · GPA 4.05 / 4.5", "금융 아카데미 7기 수료": "Completed the Financial Academy, 7th cohort", "브랜드 행사 4회 기획 · 최대 150명": "Planned 4 brand events · up to 150 guests", "국적과 실력이 달라도, 처음 만난 사람끼리 연결되는 참여형 브랜드 이벤트": "Interactive brand events where people of any nationality or level connect with someone new", "Branch Assistant · 이벤트 공동 호스트국내 최대 영어회화 스터디 1호점2024.08 – 현재": "<b>Branch Assistant · Event co-host</b><br/>Flagship branch of Korea’s largest English conversation study<br/>Aug 2024 – Present", "참여 인원 증가 · 90 → 150명": "Turnout growth · 90 → 150 guests", "이벤트 4회 누적 게스트": "Total guests across 4 events", "회차별 사전 RSVP · 행사 전 비용 충당": "Advance RSVPs per event · costs covered before the night", "먼저 제안해 기획을 맡다업무 범위 밖이었지만 매니저에게 직접 제안해 지점 파티 기획 권한을 받았습니다.": "<b>Pitched it, then got to plan it</b>It was outside my role, but I proposed it to my manager directly and was given <mark>ownership of the branch parties</mark>.", "템플릿 대신 시리즈 홍보물마스코트 ‘코코’와 직접 찍은 사진으로 회차별 테마 포스터를 디자인했습니다.": "<b>A poster series, not templates</b>I designed <mark>a themed poster for each event</mark> with Coco the mascot and my own photos.", "SNS용 애니메이션 포스터인스타그램용으로 움직임을 넣은 포스터를 만들어 사전 RSVP를 모았습니다.": "<b>Animated posters for social</b>I made <mark>posters with motion</mark> for Instagram to gather RSVPs in advance.", "스태프 근무표 · 매뉴얼 4p": "Staff rota · manual, 4p", "크리스마스 행사 현장": "Christmas event on site", "행사 현장 영상": "Event footage", "아래 홀로그램 카드를 넘겨 보고, 가운데 카드를 누르면 크게 볼 수 있습니다.": "Swipe through the hologram cards below; tap the centre card to enlarge it.", "↺ 처음부터": "↺ Replay", "참여권 배부": "Game pass at the door", "같은 그림 짝 찾기": "Find your matching picture", "짝 인증": "Pair check", "응모권": "Entries", "🎯사격": "🎯<em>Shooting</em>", "⭕링 던지기": "⭕<em>Ring toss</em>", "⚽푸즈볼": "⚽<em>Foosball</em>", "01게임 참여권 받기입장 시 회차 테마 그림 카드 배부": "<b>01</b><h4>Get a game pass</h4>A themed picture card at the door", "02같은 그림 짝 찾기처음 만난 게스트와 팀 구성": "<b>02</b><h4>Find your match</h4>Team up with a guest you just met", "03인증 후 미니게임사격 · 링 던지기 · 푸즈볼": "<b>03</b><h4>Mini games after check-in</h4>Shooting · ring toss · foosball", "04경품 응모권많이 참여할수록 당첨 확률 ↑": "<b>04</b><h4>Prize-draw entries</h4>Play more, win more often ↑", "↻ 선착순 마감 → 재참여형 · 인기로 미니게임이 조기 마감되자, 같은 그림 카드를 여러 장 준비해 새로운 파트너와 반복 참여하도록 바꿨습니다.": "<b>↻ First-come → replayable</b> · When the mini games sold out early, I prepared several copies of each picture card so guests could replay with new partners.", "응대 스크립트 · 예약 프로세스 · 스터디 진행까지, 고객과 만나는 첫 접점을 다시 설계": "Script, booking process and study sessions: redesigning the first touchpoint with customers", "Branch Assistant · 고객 응대문의자 콜백 · 상담 예약 · 스터디 진행2024.08 – 현재": "<b>Branch Assistant · Customer care</b><br/>Inquiry callbacks · booking · study sessions<br/>Aug 2024 – Present", "상담 전환율 (5% → 7%) · 지점 평균 4%": "Booking rate (5% → 7%) · branch average 4%", "회신량 · 1년차 2,241건 → 2년차 5,062건": "Callbacks · 2,241 in year one → 5,062 in year two", "2년간 누적 회신 · 조교 중 최다": "Total callbacks over two years · most among staff", "세션당 최대 응대 인원": "Members hosted per session, at most", "이름 확인“○○님 되시죠?” 광고 전화가 아님을 첫마디에 전달": "<b>Confirm the name</b><span>“Is this ○○?” signals from the first words that it is not a sales call</span>", "문의 경로 안내“영어회화 스터디 컬컴 신촌점입니다”로 신뢰 확보": "<b>State the inquiry source</b><span>“This is Culcom Sinchon, the English study” builds trust</span>", "1분 양해“1분만 통화 가능하실까요?”로 부담 낮추기": "<b>Ask for one minute</b><span>“Do you have a minute?” lowers the pressure</span>", "가장 빠른 상담 제안필요한 정보만 전하고 바로 일정 제안": "<b>Offer the earliest slot</b><span>Only the essentials, then a time right away</span>", "1년차 회신": "Year 1 callbacks", "2년차 회신": "Year 2 callbacks", "지점 평균": "Branch average", "내 전환율": "My booking rate", "2년간 7,303건 회신 · 조교 중 최다 회신, 최고 전환율": "7,303 callbacks over two years · most callbacks and highest conversion among staff", "미확정 사유를 데이터로미확정 사유를 타지점 희망 · 사정상 거절 · 허수 3가지로 분류해 기록했고, 허수가 많은 광고를 매니저에게 공유해 광고 효율 개선에 반영되었습니다.": "<b>Non-bookings as data</b>I logged every non-booking as <mark>other branch · declined · fake lead</mark>, and shared ads with many fake leads with my manager, which fed into improving ad efficiency.", "모두가 쓰는 메시지 템플릿언어별 상담 가능 시간대를 매니저와 정리하고, 전 조교가 함께 쓰는 구글 문서 메시지 템플릿을 업데이트했습니다.": "<b>One template for everyone</b>I clarified each language’s consultation hours with my manager and updated the <mark>Google Docs message templates</mark> all assistants share.", "01운영 변화2025년 11월 일본어 · 중국어 스터디가 추가되며 언어별 상담 시간 · 정원이 달라졌습니다.": "<b>01</b><h4>Change</h4>Japanese and Chinese studies were added in Nov 2025, each with its own consultation hours and capacity.", "02위험 발견네이버 예약은 영어 기준으로 자동 확정되어 중복 · 초과 예약 위험이 있었습니다.": "<b>02</b><h4>Risk spotted</h4>Naver still auto-confirmed bookings on the English schedule, risking <mark>double and over-booking</mark>.", "03개선 제안업무 중 먼저 파악해, 정원이 찬 뒤 당일 예약이 확정되지 않도록 수동 확정 전환을 제안했습니다.": "<b>03</b><h4>Proposal</h4>I caught it on the job and proposed <mark>manual confirmation</mark> so same-day bookings would not be confirmed once slots were full.", "04결과언어 확대 후에도 중복 예약 · 혼선 없이 운영되었습니다.": "<b>04</b><h4>Result</h4>No double bookings or confusion after the language expansion.", "리더가 비는 날에는 초급부터 레벨 4 프리토킹까지 직접 세션을 진행했습니다. 그룹마다 속도와 말하기 방식을 맞춰, 처음 온 멤버도 대화에 들어올 수 있게 했습니다.": "When leaders were out, I ran sessions myself, <mark>from beginner to level-4 free talk</mark>, matching each group’s pace and speaking style so even first-time members could join the conversation.", "흩어진 정보를 미국 독자가 읽는 자료로": "Organizing scattered information into material for US readers", "Marketing Intern · Remote미국 교육 스타트업 (Tysons, VA)2022.01 – 02": "<b>Marketing Intern · Remote</b><br/>US education startup (Tysons, VA)<br/>Jan – Feb 2022", "흩어진 정보를 구조화텍스트로 빼곡한 시트를 프로그램 유형 · 핵심 정보 기준으로 다시 분류했습니다.": "<b>Structured scattered data</b>I regrouped a text-heavy sheet <mark>by program type and key details</mark>.", "미국 독자에 맞춘 형식미국 상사의 피드백으로 Visme를 빠르게 익혀 디자인을 통일했습니다.": "<b>A format for US readers</b>Following my US supervisor’s feedback, I <mark>picked up Visme quickly</mark> and unified the design.", "기한 내 완수 · 수료장학금 · 인턴십 · 서머 프로그램 브로슈어와 이북 2종을 완성했습니다.": "<b>Delivered on time · completed</b>I finished <mark>a brochure and an e-book</mark> on scholarships, internships and summer programs.", "브로슈어 전체 23p": "Full brochure, 23p", "이북 전체 17p": "Full e-book, 17p", "인턴십 수료증": "Internship certificate", "최고 등급": "Highest level", "동국대학교 경제학과 · 학사": "Dongguk University · B.A. in Economics", "2024.03 – 2026.08 · 편입": "Mar 2024 – Aug 2026 · transfer", "강릉원주대학교 국제통상학과": "Gangneung-Wonju National Univ. · International Trade", "삼성금융아카데미 7기 수료": "Samsung Financial Academy, 7th cohort (completed)", "경제학 지식을 금융 산업의 실무 맥락으로 확장": "Extended economics into <mark>how the finance industry works in practice</mark>", "수료증": "Certificate", "교내 글로벌마케팅대회 최우수상 (1위)": "Global Marketing Competition · 1st place", "시장 규모 · 현지 수요를 분석해 해외 진출 전략 제안": "Analyzed market size and local demand to propose a <mark>market-entry strategy</mark>", "상장": "Award", "발표 자료 18p": "Deck, 18p", "평창동계올림픽 통역 자원봉사": "PyeongChang 2018 Winter Olympics · volunteer interpreter", "강릉역에서 교통 · 길 안내 문의를 영어로 응대": "Answered <mark>transportation and directions</mark> questions in English at Gangneung Station", "명찰": "Name badge", "현장 사진": "On-site photo", "고객이 브랜드를 직접 느끼고 머무는 순간을, 로레알에서 함께 만들고 싶습니다.": "I want to create, with L’Oréal, the moments when customers feel a brand firsthand and choose to stay."};window.__ENA={"Educanspire 브로슈어": "Educanspire brochure", "글로벌 마케팅 경진대회 발표 자료": "Global Marketing Competition deck", "드림하우스 파티 포스터": "Dream House party poster", "마스코트 코코": "Coco the mascot", "브로슈어 표지": "Brochure cover", "삼성 금융 아카데미 배지": "Samsung Financial Academy badge", "스태프 근무표": "Staff rota", "이북 표지": "E-book cover", "진행한 레벨": "Levels led", "카지노 파티 포스터": "Casino party poster", "평창 올림픽 자원봉사 배지": "PyeongChang Olympics volunteer badge", "평창 올림픽 자원봉사 안내소에서": "At the PyeongChang Olympics volunteer desk", "동국대학교 졸업": "Graduating from Dongguk University"};</script>
 <script>
 (function(){
   const reduce = matchMedia('(prefers-reduced-motion: reduce)').matches;
